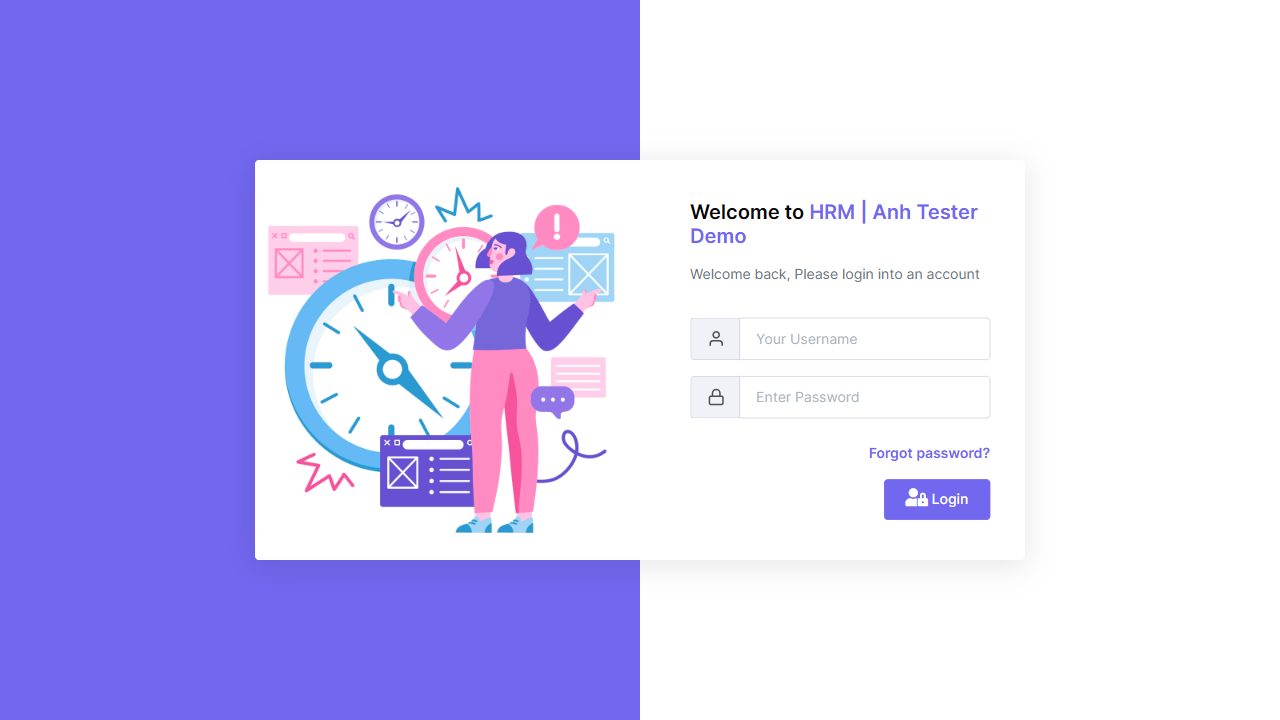
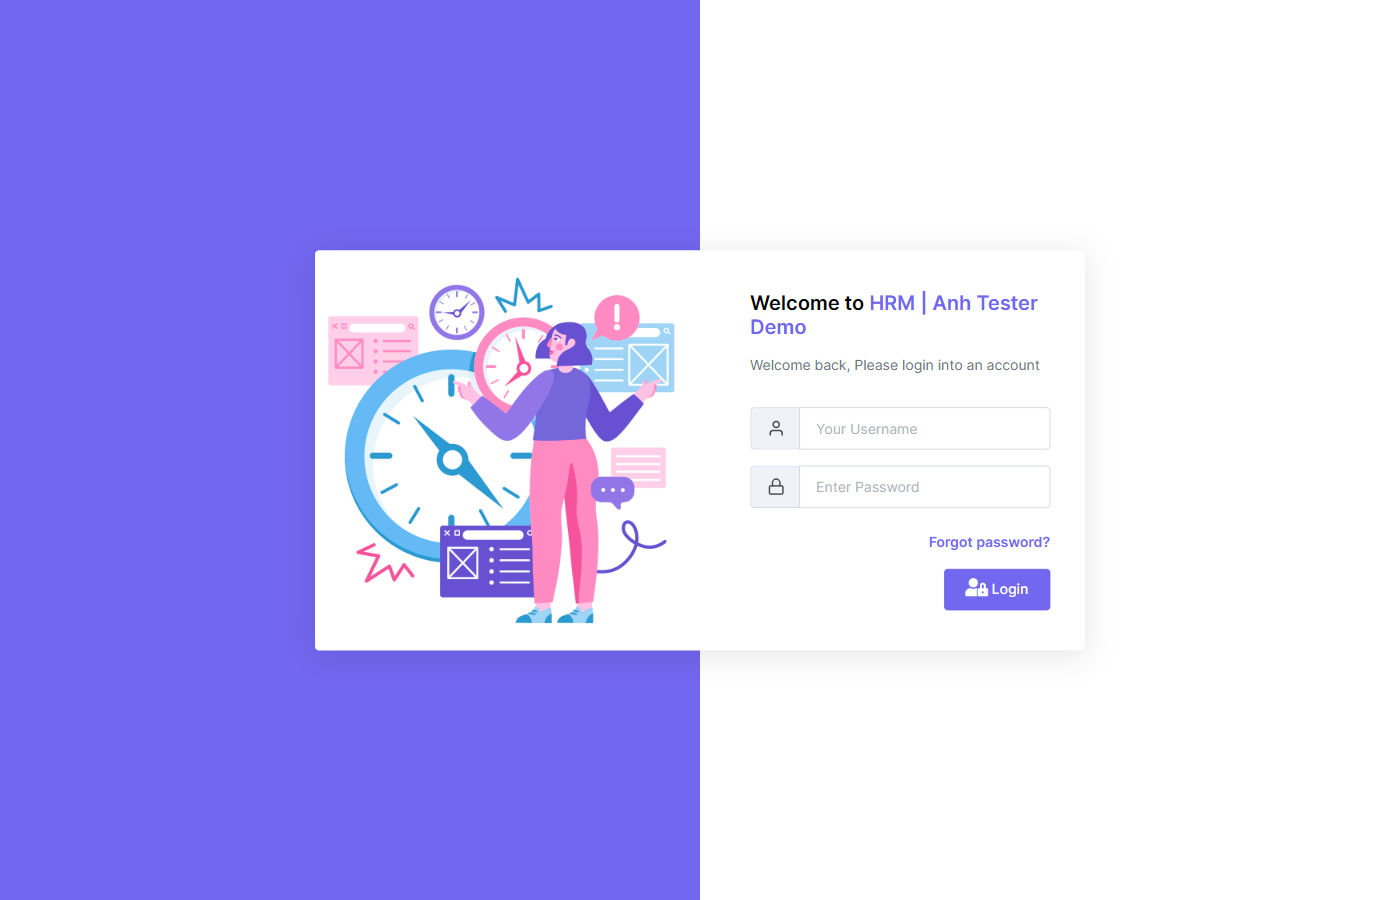
feat: BT fixture

diff --git a/son-tung/BT_BUOI8/results/report.html b/son-tung/BT_BUOI8/results/report.html
@@ -328,7 +328,7 @@ div.media {
   </head>
   <body>
     <h1 id="title">report.html</h1>
-    <p>Report generated on 07-Nov-2025 at 22:20:19 by <a href="https://pypi.python.org/pypi/pytest-html">pytest-html</a>
+    <p>Report generated on 10-Nov-2025 at 20:43:23 by <a href="https://pypi.python.org/pypi/pytest-html">pytest-html</a>
         v4.1.1</p>
     <div id="environment-header">
       <h2>Environment</h2>
@@ -382,7 +382,7 @@ div.media {
         <h2>Summary</h2>
         <div class="additional-summary prefix">
         </div>
-        <p class="run-count">1 test took 00:00:20.</p>
+        <p class="run-count">2 tests took 00:00:09.</p>
         <p class="filter">(Un)check the boxes to filter the results.</p>
         <div class="summary__reload">
           <div class="summary__reload__button hidden" onclick="location.reload()">
@@ -395,7 +395,7 @@ div.media {
             <input checked="true" class="filter" name="filter_checkbox" type="checkbox" data-test-result="failed" disabled/>
             <span class="failed">0 Failed,</span>
             <input checked="true" class="filter" name="filter_checkbox" type="checkbox" data-test-result="passed" />
-            <span class="passed">1 Passed,</span>
+            <span class="passed">2 Passed,</span>
             <input checked="true" class="filter" name="filter_checkbox" type="checkbox" data-test-result="skipped" disabled/>
             <span class="skipped">0 Skipped,</span>
             <input checked="true" class="filter" name="filter_checkbox" type="checkbox" data-test-result="xfailed" disabled/>
@@ -429,7 +429,7 @@ div.media {
     </table>
   </body>
   <footer>
-    <div id="data-container" data-jsonblob="{&#34;environment&#34;: {&#34;Python&#34;: &#34;3.12.1&#34;, &#34;Platform&#34;: &#34;Windows-11-10.0.26120-SP0&#34;, &#34;Packages&#34;: {&#34;pytest&#34;: &#34;8.4.2&#34;, &#34;pluggy&#34;: &#34;1.6.0&#34;}, &#34;Plugins&#34;: {&#34;base-url&#34;: &#34;2.1.0&#34;, &#34;html&#34;: &#34;4.1.1&#34;, &#34;metadata&#34;: &#34;3.1.1&#34;, &#34;playwright&#34;: &#34;0.7.1&#34;}, &#34;JAVA_HOME&#34;: &#34;F:\\Java&#34;, &#34;Base URL&#34;: &#34;&#34;}, &#34;tests&#34;: {&#34;BT_BUOI8/tests/test_header.py::test_header[chromium]&#34;: [{&#34;extras&#34;: [], &#34;result&#34;: &#34;Passed&#34;, &#34;testId&#34;: &#34;BT_BUOI8/tests/test_header.py::test_header[chromium]&#34;, &#34;duration&#34;: &#34;00:00:20&#34;, &#34;resultsTableRow&#34;: [&#34;&lt;td class=\&#34;col-result\&#34;&gt;Passed&lt;/td&gt;&#34;, &#34;&lt;td class=\&#34;col-testId\&#34;&gt;BT_BUOI8/tests/test_header.py::test_header[chromium]&lt;/td&gt;&#34;, &#34;&lt;td class=\&#34;col-duration\&#34;&gt;00:00:20&lt;/td&gt;&#34;, &#34;&lt;td class=\&#34;col-links\&#34;&gt;&lt;/td&gt;&#34;], &#34;log&#34;: &#34;----------------------------- Captured stdout call -----------------------------\n[BasePage] Truy c\u1eadp: https://hrm.anhtester.com/\n[SCREENSHOT] L\u01b0u t\u1ea1i: BT_BUOI8/screenshots/Open web.png\n[Fill] &amp;#x27;admin_example&amp;#x27; v\u00e0o //input[@id=&amp;#x27;iusername&amp;#x27;]\n[Fill] &amp;#x27;123456&amp;#x27; v\u00e0o //input[@id=&amp;#x27;ipassword&amp;#x27;]\n[Click] //button[@type=&amp;#x27;submit&amp;#x27;]\n[SCREENSHOT] L\u01b0u t\u1ea1i: BT_BUOI8/screenshots/Login_successful.png\n[Click] Header button\n[SCREENSHOT] L\u01b0u t\u1ea1i: BT_BUOI8/screenshots/Header button.png\n[Click] Header button\n[SCREENSHOT] L\u01b0u t\u1ea1i: BT_BUOI8/screenshots/Header button.png\n[Click] Header button\n[SCREENSHOT] L\u01b0u t\u1ea1i: BT_BUOI8/screenshots/Header button.png\n[Click] Header button\n[SCREENSHOT] L\u01b0u t\u1ea1i: BT_BUOI8/screenshots/Header button.png\n[Click] Languages button\n[SCREENSHOT] L\u01b0u t\u1ea1i: BT_BUOI8/screenshots/language button.png\n[Click] Apps button\n[SCREENSHOT] L\u01b0u t\u1ea1i: BT_BUOI8/screenshots/App button.png\n&#34;}]}, &#34;renderCollapsed&#34;: [&#34;passed&#34;], &#34;initialSort&#34;: &#34;result&#34;, &#34;title&#34;: &#34;report.html&#34;}"></div>
+    <div id="data-container" data-jsonblob="{&#34;environment&#34;: {&#34;Python&#34;: &#34;3.12.1&#34;, &#34;Platform&#34;: &#34;Windows-11-10.0.26120-SP0&#34;, &#34;Packages&#34;: {&#34;pytest&#34;: &#34;8.4.2&#34;, &#34;pluggy&#34;: &#34;1.6.0&#34;}, &#34;Plugins&#34;: {&#34;base-url&#34;: &#34;2.1.0&#34;, &#34;html&#34;: &#34;4.1.1&#34;, &#34;metadata&#34;: &#34;3.1.1&#34;, &#34;playwright&#34;: &#34;0.7.1&#34;}, &#34;JAVA_HOME&#34;: &#34;F:\\Java&#34;, &#34;Base URL&#34;: &#34;&#34;}, &#34;tests&#34;: {&#34;BT_BUOI8/tests/test_login.py::test_login_invaliduser&#34;: [{&#34;extras&#34;: [], &#34;result&#34;: &#34;Passed&#34;, &#34;testId&#34;: &#34;BT_BUOI8/tests/test_login.py::test_login_invaliduser&#34;, &#34;duration&#34;: &#34;00:00:04&#34;, &#34;resultsTableRow&#34;: [&#34;&lt;td class=\&#34;col-result\&#34;&gt;Passed&lt;/td&gt;&#34;, &#34;&lt;td class=\&#34;col-testId\&#34;&gt;BT_BUOI8/tests/test_login.py::test_login_invaliduser&lt;/td&gt;&#34;, &#34;&lt;td class=\&#34;col-duration\&#34;&gt;00:00:04&lt;/td&gt;&#34;, &#34;&lt;td class=\&#34;col-links\&#34;&gt;&lt;/td&gt;&#34;], &#34;log&#34;: &#34;----------------------------- Captured stdout call -----------------------------\n[BasePage] Truy c\u1eadp: https://hrm.anhtester.com/\n[SCREENSHOT] L\u01b0u t\u1ea1i: BT_BUOI8/screenshots/Open web.png\n[BasePage] Truy c\u1eadp: https://hrm.anhtester.com/\n[SCREENSHOT] L\u01b0u t\u1ea1i: BT_BUOI8/screenshots/Open web.png\n[Fill] &amp;#x27;CAHN&amp;#x27; v\u00e0o //input[@id=&amp;#x27;iusername&amp;#x27;]\n[Fill] &amp;#x27;TXND&amp;#x27; v\u00e0o //input[@id=&amp;#x27;ipassword&amp;#x27;]\n[Click] //button[@type=&amp;#x27;submit&amp;#x27;]\n[SCREENSHOT] L\u01b0u t\u1ea1i: BT_BUOI8/screenshots/Login_valid_user.png\n&#34;}], &#34;BT_BUOI8/tests/test_login.py::test_login_valid&#34;: [{&#34;extras&#34;: [], &#34;result&#34;: &#34;Passed&#34;, &#34;testId&#34;: &#34;BT_BUOI8/tests/test_login.py::test_login_valid&#34;, &#34;duration&#34;: &#34;00:00:05&#34;, &#34;resultsTableRow&#34;: [&#34;&lt;td class=\&#34;col-result\&#34;&gt;Passed&lt;/td&gt;&#34;, &#34;&lt;td class=\&#34;col-testId\&#34;&gt;BT_BUOI8/tests/test_login.py::test_login_valid&lt;/td&gt;&#34;, &#34;&lt;td class=\&#34;col-duration\&#34;&gt;00:00:05&lt;/td&gt;&#34;, &#34;&lt;td class=\&#34;col-links\&#34;&gt;&lt;/td&gt;&#34;], &#34;log&#34;: &#34;----------------------------- Captured stdout call -----------------------------\n[BasePage] Truy c\u1eadp: https://hrm.anhtester.com/\n[SCREENSHOT] L\u01b0u t\u1ea1i: BT_BUOI8/screenshots/Open web.png\n[BasePage] Truy c\u1eadp: https://hrm.anhtester.com/\n[SCREENSHOT] L\u01b0u t\u1ea1i: BT_BUOI8/screenshots/Open web.png\n[Fill] &amp;#x27;admin_example&amp;#x27; v\u00e0o //input[@id=&amp;#x27;iusername&amp;#x27;]\n[Fill] &amp;#x27;123456&amp;#x27; v\u00e0o //input[@id=&amp;#x27;ipassword&amp;#x27;]\n[Click] //button[@type=&amp;#x27;submit&amp;#x27;]\n[SCREENSHOT] L\u01b0u t\u1ea1i: BT_BUOI8/screenshots/Login_valid_user.png\n&#34;}]}, &#34;renderCollapsed&#34;: [&#34;passed&#34;], &#34;initialSort&#34;: &#34;result&#34;, &#34;title&#34;: &#34;report.html&#34;}"></div>
     <script>
       (function(){function r(e,n,t){function o(i,f){if(!n[i]){if(!e[i]){var c="function"==typeof require&&require;if(!f&&c)return c(i,!0);if(u)return u(i,!0);var a=new Error("Cannot find module '"+i+"'");throw a.code="MODULE_NOT_FOUND",a}var p=n[i]={exports:{}};e[i][0].call(p.exports,function(r){var n=e[i][1][r];return o(n||r)},p,p.exports,r,e,n,t)}return n[i].exports}for(var u="function"==typeof require&&require,i=0;i<t.length;i++)o(t[i]);return o}return r})()({1:[function(require,module,exports){
 const { getCollapsedCategory, setCollapsedIds } = require('./storage.js')

diff --git a/son-tung/BT_BUOI8/pages/login_page.py b/son-tung/BT_BUOI8/pages/login_page.py
@@ -17,19 +17,21 @@ class LoginPage(BasePage):
 
     def goto(self):
         self._visit(self.URL)
-
-    def login(self, account):
-        self.goto()
         self._take_screenshot("Open web.png")
+
+    def login_user(self, account):
+        self.goto()
 
         with open("BT_BUOI8/data/users.json") as f:
             user = json.load(f)
 
-        valid = user[account]
+        login = user[account]
 
-        self._fill(self.USERNAME_FIELD, valid["username"])
-        self._fill(self.PASSWORD_FIELD, valid["password"])
+        self._fill(self.USERNAME_FIELD, login["username"])
+        self._fill(self.PASSWORD_FIELD, login["password"])
         self._click(self.LOGIN_BUTTON)
+
+        self._take_screenshot("Login_user.png")
 
     def assert_login_successful(self):
         expect(self.page).to_have_url("https://hrm.anhtester.com/erp/desk")

diff --git a/son-tung/BT_BUOI8/tests/conftest.py b/son-tung/BT_BUOI8/tests/conftest.py
@@ -1,0 +1,31 @@
+import pytest
+from BT_BUOI8.pages.login_page import LoginPage
+
+@pytest.fixture
+def login_page(page):
+    return LoginPage(page)
+
+@pytest.fixture
+def logged_in_page(login_page):
+    login_page.goto()
+    login_page.login_user("valid_user")
+    return login_page
+
+@pytest.fixture(scope="class")
+def logged_in_class(request, browser):
+    context = browser.new_context()
+    page = context.new_page()
+
+    # Login 1 lần cho cả class
+    lp = LoginPage(page)
+    lp.goto()
+    lp.login_user("valid_user")
+    lp.header.wait_for_user_logged_in()
+
+    request.cls.page = page
+    request.cls.login_page = lp
+    request.cls.context = context
+
+    yield
+
+    context.close()

diff --git a/son-tung/BT_BUOI8/conftest.py b/son-tung/BT_BUOI8/conftest.py
@@ -1,0 +1,20 @@
+import pytest
+from playwright.sync_api import Playwright
+
+@pytest.fixture(scope="session")
+def browser(playwright: Playwright):
+    browser = playwright.chromium.launch(headless=False, channel="chrome")
+    yield browser
+    browser.close()
+
+@pytest.fixture
+def context(browser):
+    context = browser.new_context(viewport={"width": 1400, "height": 900})
+    yield context
+    context.close()
+
+@pytest.fixture
+def page(context):
+    page = context.new_page()
+    yield page
+    page.close()

diff --git a/son-tung/BT_BUOI8/tests/test_login_failed.py b/son-tung/BT_BUOI8/tests/test_login_failed.py
@@ -5,7 +5,7 @@ def test_login_failed(page):
 
     # Open webpage and login
     login_page.goto()
-    login_page.login("invalid_user")
+    login_page.login_user("invalid_user")
 
     # Assert Error message popup
     login_page.assert_error_message_visible()

diff --git a/son-tung/BT_BUOI8/tests/test_login.py b/son-tung/BT_BUOI8/tests/test_login.py
@@ -1,0 +1,20 @@
+def test_login_invaliduser(login_page):
+    login_page.goto()
+    login_page.login_user("invalid_user")
+
+def test_login_valid(login_page):
+    login_page.goto()
+    login_page.login_user("valid_user")
+
+
+
+
+
+
+
+
+
+
+
+
+

diff --git a/son-tung/BT_BUOI8/tests/test_header.py b/son-tung/BT_BUOI8/tests/test_header.py
@@ -4,7 +4,7 @@ def test_header(page):
     login_page = LoginPage(page)
 
     # Login
-    login_page.login("valid_user")
+    login_page.login_user("valid_user")
     login_page.assert_login_successful()
 
     # Click all button in header bar
